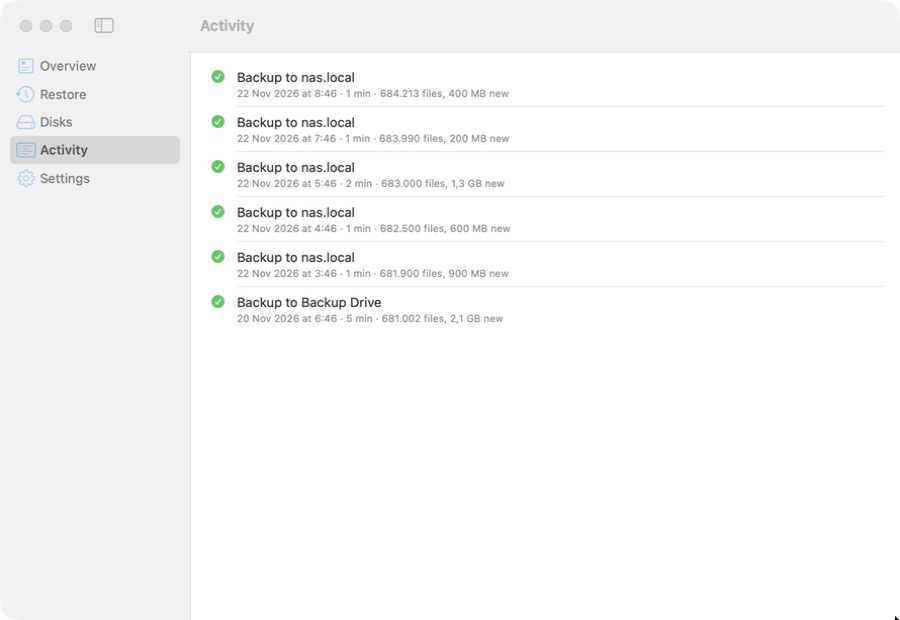
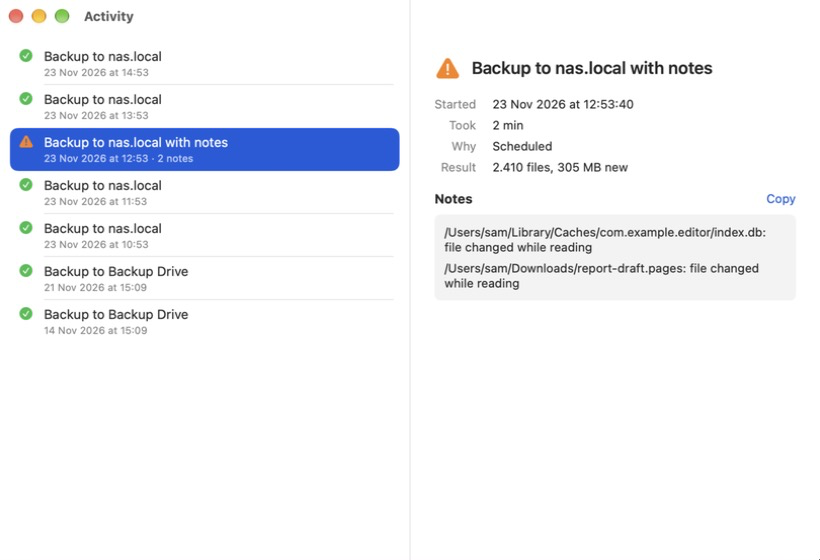
Update screenshots for the new window layout

diff --git a/docs/index.html b/docs/index.html
@@ -49,6 +49,7 @@
   .features { display: grid; grid-template-columns: repeat(auto-fit, minmax(290px, 1fr)); gap: 16px; }
   .gallery { display: grid; grid-template-columns: repeat(auto-fit, minmax(300px, 1fr)); gap: 24px; }
   .gallery figure { margin: 0; }
+  @media (min-width: 720px) { .gallery { grid-template-columns: 1.7fr 1fr; align-items: start; } }
   .gallery img { width: 100%; height: auto; border-radius: 10px; border: 1px solid var(--line); box-shadow: 0 10px 30px rgba(30, 20, 80, .18); }
   .gallery figcaption { color: var(--muted); font-size: 15px; margin-top: 10px; text-align: center; }
   details { background: var(--card); border: 1px solid var(--line); border-radius: 12px; padding: 14px 18px; margin-bottom: 10px; }
@@ -82,7 +83,7 @@
         <a class="btn" href="https://github.com/vloothuis/nine-lives">View on GitHub</a>
       </div>
       <p class="fine" id="fine">macOS 15 or later · Apple silicon and Intel · free and open source</p>
-      <div class="shot"><img src="shots/overview.png" alt="Nine Lives overview window: Your Mac is backed up" width="900" height="620"></div>
+      <div class="shot"><img src="shots/overview.png" alt="Nine Lives window: Your Mac is backed up, with a server and a USB disk" width="900" height="620"></div>
     </div>
 
     <section id="how">
@@ -112,8 +113,8 @@
       <h2>A look inside</h2>
       <p class="sub">A small window and a menu bar icon. That is all.</p>
       <div class="gallery">
-        <figure><img src="shots/disks.png" alt="Disks view with a server and a USB disk" loading="lazy"><figcaption>Your disks and servers, and when each was last checked</figcaption></figure>
-        <figure><img src="shots/activity.png" alt="Activity view listing recent backups" loading="lazy"><figcaption>A plain list of what was backed up and when</figcaption></figure>
+        <figure><img src="shots/activity.png" alt="Activity window with recent backups and the notes of one backup" width="820" height="560" loading="lazy"><figcaption>Every backup, with what happened and why</figcaption></figure>
+        <figure><img src="shots/settings.png" alt="Settings window with general, schedule and history options" width="560" height="652" loading="lazy"><figcaption>A few settings, in their own window</figcaption></figure>
       </div>
     </section>
 
